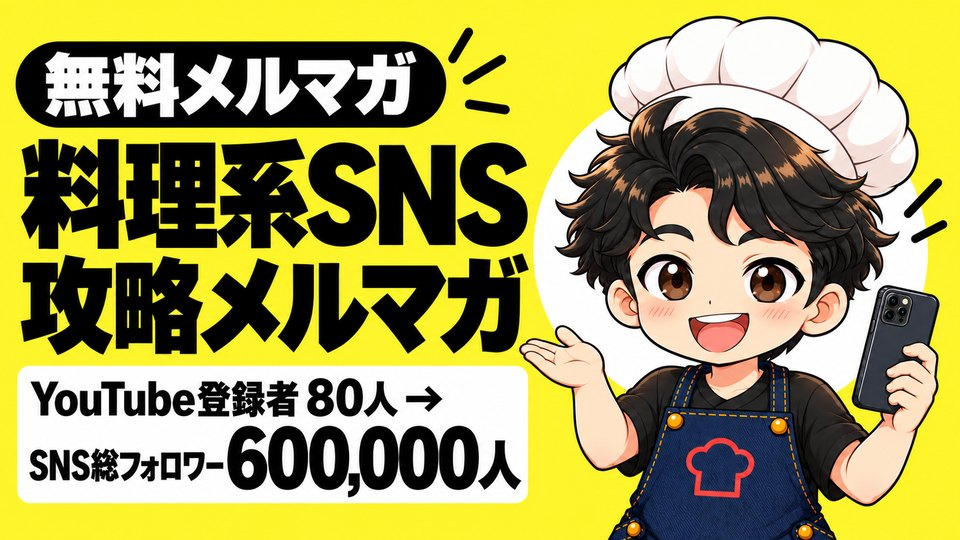
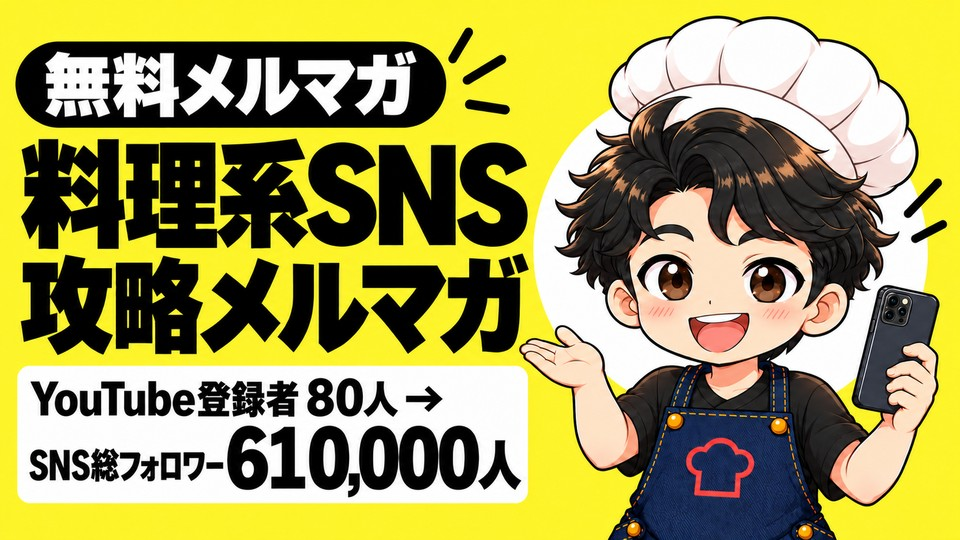
Update: 2026-10-26 09:20:57
🤖 Generated with [Claude Code](https://claude.ai/code)

Changed region(s): [[0.25, 0.7704, 0.3438, 0.9185], [0.9062, 0.7704, 0.9375, 0.8], [0.625, 0.9778, 0.6562, 1.0]]

diff --git a/index.html b/index.html
@@ -550,7 +550,7 @@
                     </div>
                 </a>
                 <a class="nl-card" href="https://nabenoblog.com/lp/ryouri/?src=portfolio" target="_blank" rel="noopener">
-                    <img src="images/nl-ryouri.jpg?v=2" alt="料理系SNS攻略メルマガ" width="960" height="540" loading="lazy">
+                    <img src="images/nl-ryouri.jpg?v=3" alt="料理系SNS攻略メルマガ" width="960" height="540" loading="lazy">
                     <div class="nl-body">
                         <p class="nl-tag">料理の発信を伸ばしたい方へ</p>
                         <h3>料理系SNS攻略メルマガ</h3>
